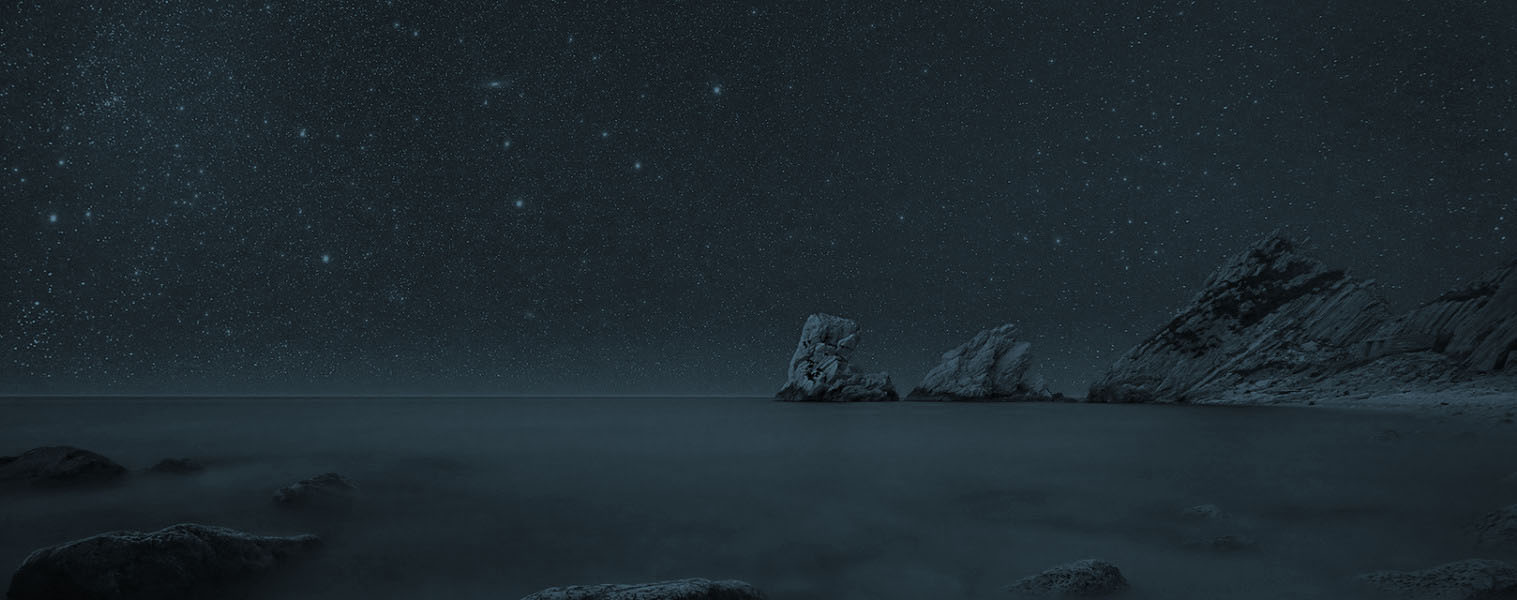
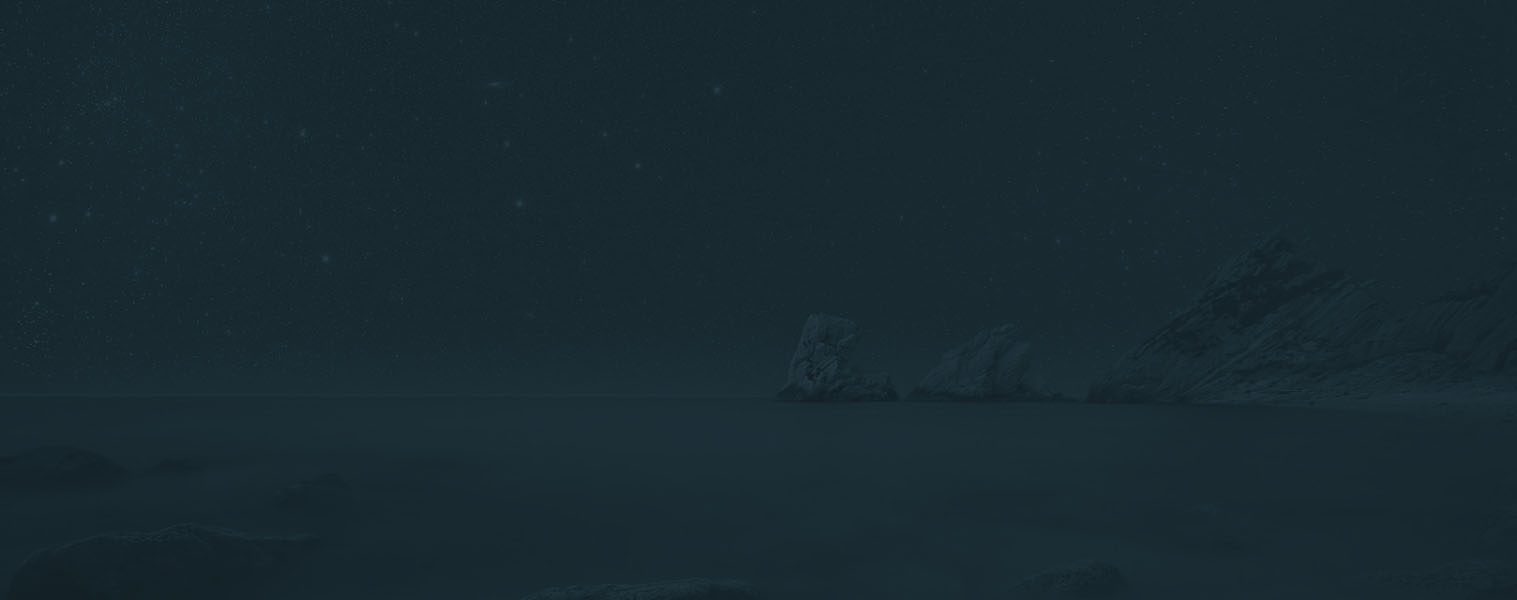
Restyle page

diff --git a/_sass/components/_variables.scss b/_sass/components/_variables.scss
@@ -34,11 +34,11 @@
 // 1. Colors
 // ==========================================================================
 
-$primary-color: #E5BD44 !default;
+$primary-color: #41567F !default;
 $primary-color-light: lighten($primary-color, 15%) !default;
 $primary-color-dark: darken($primary-color, 15%) !default;
 
-$secondary-color: color("teal", "lighten-1") !default;
+$secondary-color: #E5CA50 !default;
 $success-color: color("green", "base") !default;
 $error-color: color("red", "base") !default;
 $link-color: color("light-blue", "darken-1") !default;

diff --git a/test.css b/test.css
@@ -1,7 +1,7 @@
 body {
     margin: 0px;
     padding: 0px;
-    background-color: #132026;
+    background-color: #182931;
     color: white;
 }
 
@@ -51,6 +51,7 @@ nav i {
     height: 600px;
     background-image: url("images/andromeda-wide.jpg");
     background-position-x: center;
+    background-repeat: no-repeat;
     padding: 1em;
 }
 
